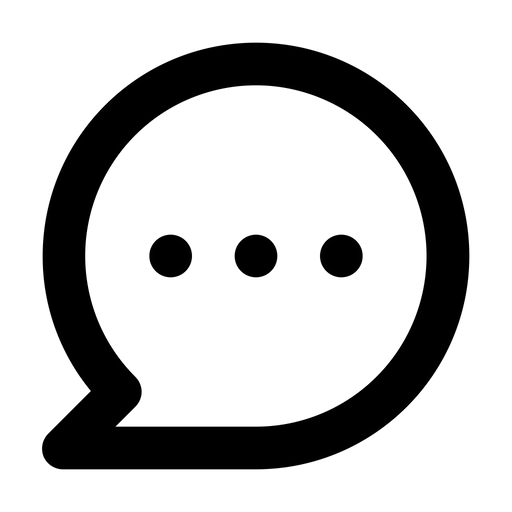
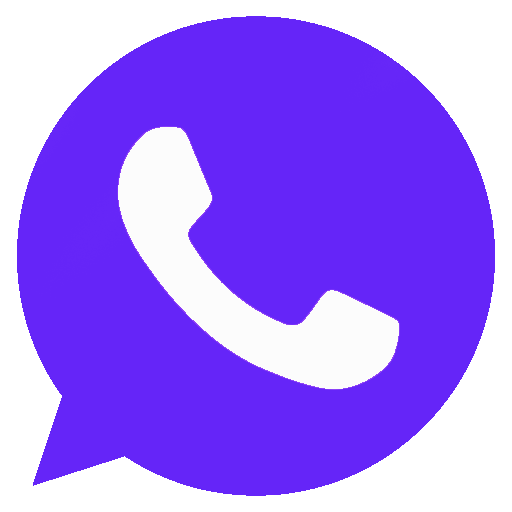
Add files via upload

diff --git a/js/client.js b/js/client.js
@@ -1,60 +1,50 @@
 const socket = io('http://localhost:8000');
 
-const form  = document.getElementById('send-container')
-const messageInput =document.getElementById('messageInp')
-const messageContainer =document.querySelector(".container")
+// Get DOM elements in respective Js variables
+const form = document.getElementById('send-container');
+const messageInput = document.getElementById('messageInp')
+const messageContainer = document.querySelector(".container")
 
-const append = (message,position) =>{
-    const messageElement=document.createElement('div');
-    messageElement.innerText=message;
+// Audio that will play on receiving messages
+var audio = new Audio('ting.mp3');
+
+// Function which will append event info to the contaner
+const append = (message, position)=>{
+    const messageElement = document.createElement('div');
+    messageElement.innerText = message;
     messageElement.classList.add('message');
     messageElement.classList.add(position);
     messageContainer.append(messageElement);
+    if(position =='left'){ 
+        audio.play();
+    }
 }
-form.addEventListener('submit',(e)=>{
+
+
+// Ask new user for his/her name and let the server know
+const name = prompt("Enter your name to join");
+socket.emit('new-user-joined', name);
+
+// If a new user joins, receive his/her name from the server
+socket.on('user-joined', name =>{
+    append(`${name} joined the chat`, 'right')
+})
+
+// If server sends a message, receive it
+socket.on('receive', data =>{
+    append(`${data.name}: ${data.message}`, 'left')
+})
+
+// If a user leaves the chat, append the info to the container
+socket.on('left', name =>{
+    append(`${name} left the chat`, 'right')
+})
+
+// If the form gets submitted, send server the message
+form.addEventListener('submit', (e) => {
     e.preventDefault();
-    const message =messageInput.value;
+    const message = messageInput.value;
     append(`You: ${message}`, 'right');
     socket.emit('send', message);
-    messageInput.value='';
+    messageInput.value = ''
 })
-
-const name = prompt("Enter your name to join");
-
-socket.emit('new-user-joined', name)
-
-socket.on('receive',data=>{
-    append(`${data.name}: ${data.message} `, 'left' )
-})
-socket.on('user-joined',name=>{
-    append(`${name} joined the chat`, 'right' )
-})
-socket.on('left', name=>{
-    append(`${name} left the chat`,'left');
-})
-function boldText(){
-    var target = document.getElementById("messageInp");
-    if( target.style.fontWeight == "bolder" ) {
-        target.style.fontWeight = "normal";
-    } else {
-        target.style.fontWeight = "bolder";
-    }
-}
-
-function italicText(){
-    var target = document.getElementById("messageInp");
-    if( target.style.fontStyle == "italic" ) {
-        target.style.fontStyle = "normal";
-    } else {
-        target.style.fontStyle = "italic";
-    }
-}
-
-function underlineText(){
-    var target = document.getElementById("messageInp");
-    if( target.style.textDecoration == "underline" ) {
-        target.style.textDecoration = "none";
-    } else {
-        target.style.textDecoration = "underline";
-    }
-}

diff --git a/css/style.css b/css/style.css
@@ -1,38 +1,34 @@
 body{
     height: 100vh;
-    background-image: linear-gradient(rgb(197, 188, 207),rgb(49, 37, 136));
+    background-image: linear-gradient(rgb(255, 255, 255), rgb(109, 39, 239));
+}
+
+.logo{
+    display: block;
+    margin: auto;
+    width: 50px;
+    height: 50px;
 }
 h1{
-    margin: 12px;
+    margin-top: 12px;
     font-size: 30px;
     font-family: 'Segoe UI', Tahoma, Geneva, Verdana, sans-serif;
     text-align: center;
 }
-.logo{
-    display: block;
-    margin: auto;
-    width: 100px;
-    height: 100px;
-
-}
-.font-class{
-    margin-bottom: 10px;
-    display: inline block;
-    width: 40%;
-    text-align: center;
-}
 .container{
-    max-width: 900px;
+    max-width: 955px;
     border: 2px solid black;
+    border-radius: 13px;
+    margin: auto;
+    height: 60vh;
     padding: 33px;
     overflow-y: auto;
-    margin: auto;
-    height: 50vh;
-    margin-bottom: 15px;
+    margin-bottom: 23px;
 }
+
 .message{
-    background-color: grey;
-    width: 25%;
+    background-color: rgb(211, 204, 204);
+    width: 24%;
     padding: 10px;
     margin: 17px 12px;
     border: 2px solid black;
@@ -40,32 +36,37 @@ h1{
 }
 .left{
     float: left;
-    clear: both;
+    clear:both;
 }
+
 .right{
     float: right;
-    clear: both;
+    clear:both;
 }
+
 #send-container{
-    display: block;
+    display:block;
     margin: auto;
     text-align: center;
-    max-width: 995px;
+    max-width: 1085px;
     width: 100%;
+    display: flex;
+    justify-content: center;
+    align-items: center;
 }
 #messageInp{
-    width: 92%;
+    width: 80%;
     border: 2px solid black;
     border-radius: 6px;
     height: 34px;
+    font-size: 22px;
 }
+
 .btn{
+    margin: 0 5px;
+    width: 9%;
     cursor: pointer;
-    border: 2px solod black;
+    border: 2px solid black;
     border-radius: 6px;
     height: 34px;
-}
-body{
-    height: 100vh;
-    background-image: linear-gradient(rgb(197, 188, 207),rgb(49, 37, 136));
 }

diff --git a/index.html b/index.html
@@ -2,26 +2,18 @@
 <html lang="en">
 <head>
     <meta charset="UTF-8">
-    <meta http-equiv="X-UA-Compatible" content="IE=edge">
     <meta name="viewport" content="width=device-width, initial-scale=1.0">
-    <title>Chat-apllication</title>
+    <title>iChat - Realtime Node Socket.io Chat App</title>
     <script defer src="http://localhost:8000/socket.io/socket.io.js"></script>
     <script defer src="js/client.js"></script>
     <link rel="stylesheet" href="css/style.css">
 </head>
 <body>
     <nav>
-        <img class="logo"  src="chat.png" alt="">
-        <h1>Welcome to iChat</h1>
+        <img class="logo" src="chat.png" alt="">
+        <h1>Welcome to iChat App</h1>
     </nav>
-    <div class="container">
-        
-    </div>
-    <div class="font-class">
-        <button class="btn" onclick="boldText()"><b>B</b></button>
-        <button class="btn" onclick="italicText()"><i>I</i></button>
-        <button class="btn" onclick="underlineText()">UL</button>
-    </div>
+    <div class="container"></div> 
     <div class="send">
         <form action="#" id="send-container">
             <input type="text" name="messageInp" id="messageInp">
